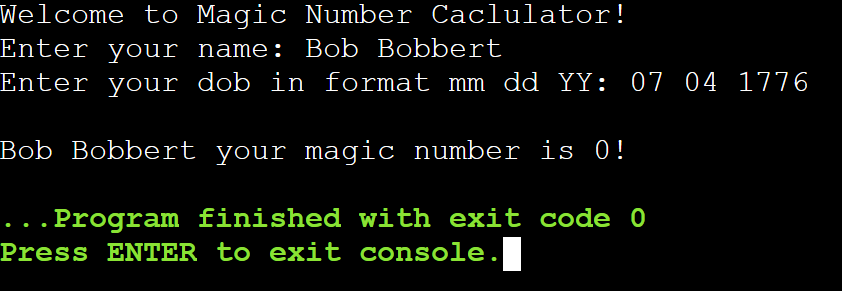
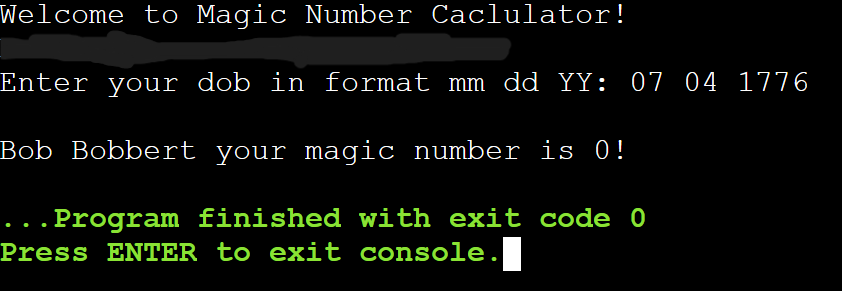
Updated lab instructions

Changed region(s): [[0.0, 0.0928, 0.6176, 0.2474]]

diff --git a/README.md b/README.md
@@ -47,7 +47,7 @@ A person's `magic_number` is calculated by getting the remainder of dividing the
 
 &emsp;**$Magic$ $Number = (Birth$ $Month$ x $Birth$ $Year)$ % $Birth$ $Day$**
 
-Write a program that will prompt the user for their name and date of birth (DOB), then output their magic number.
+Write a program that will prompt the user to input their date of birth (DOB), next calculate and output their magic number.
 
 **Expected output:**
 
